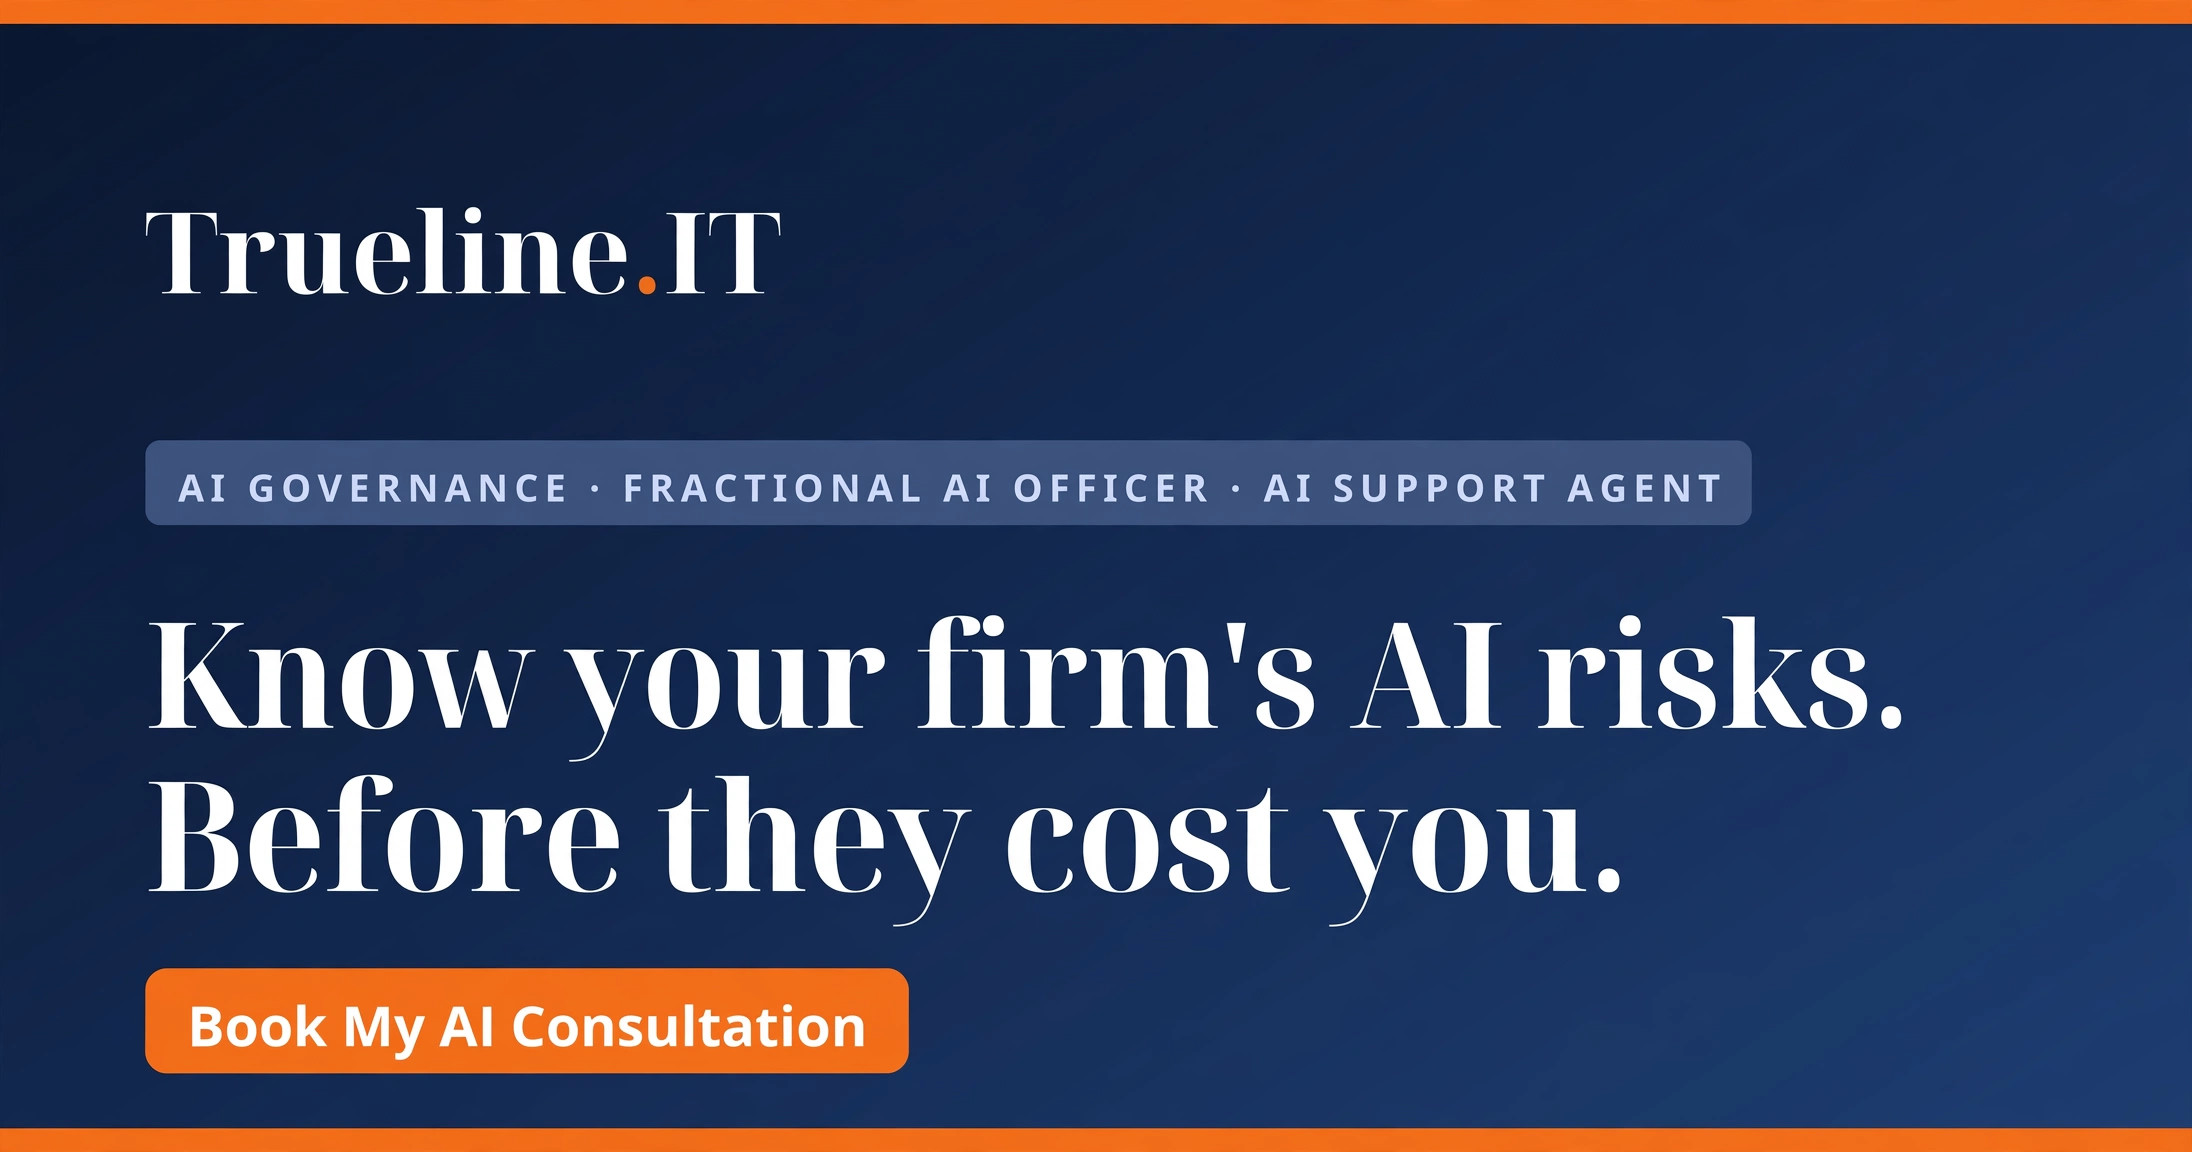
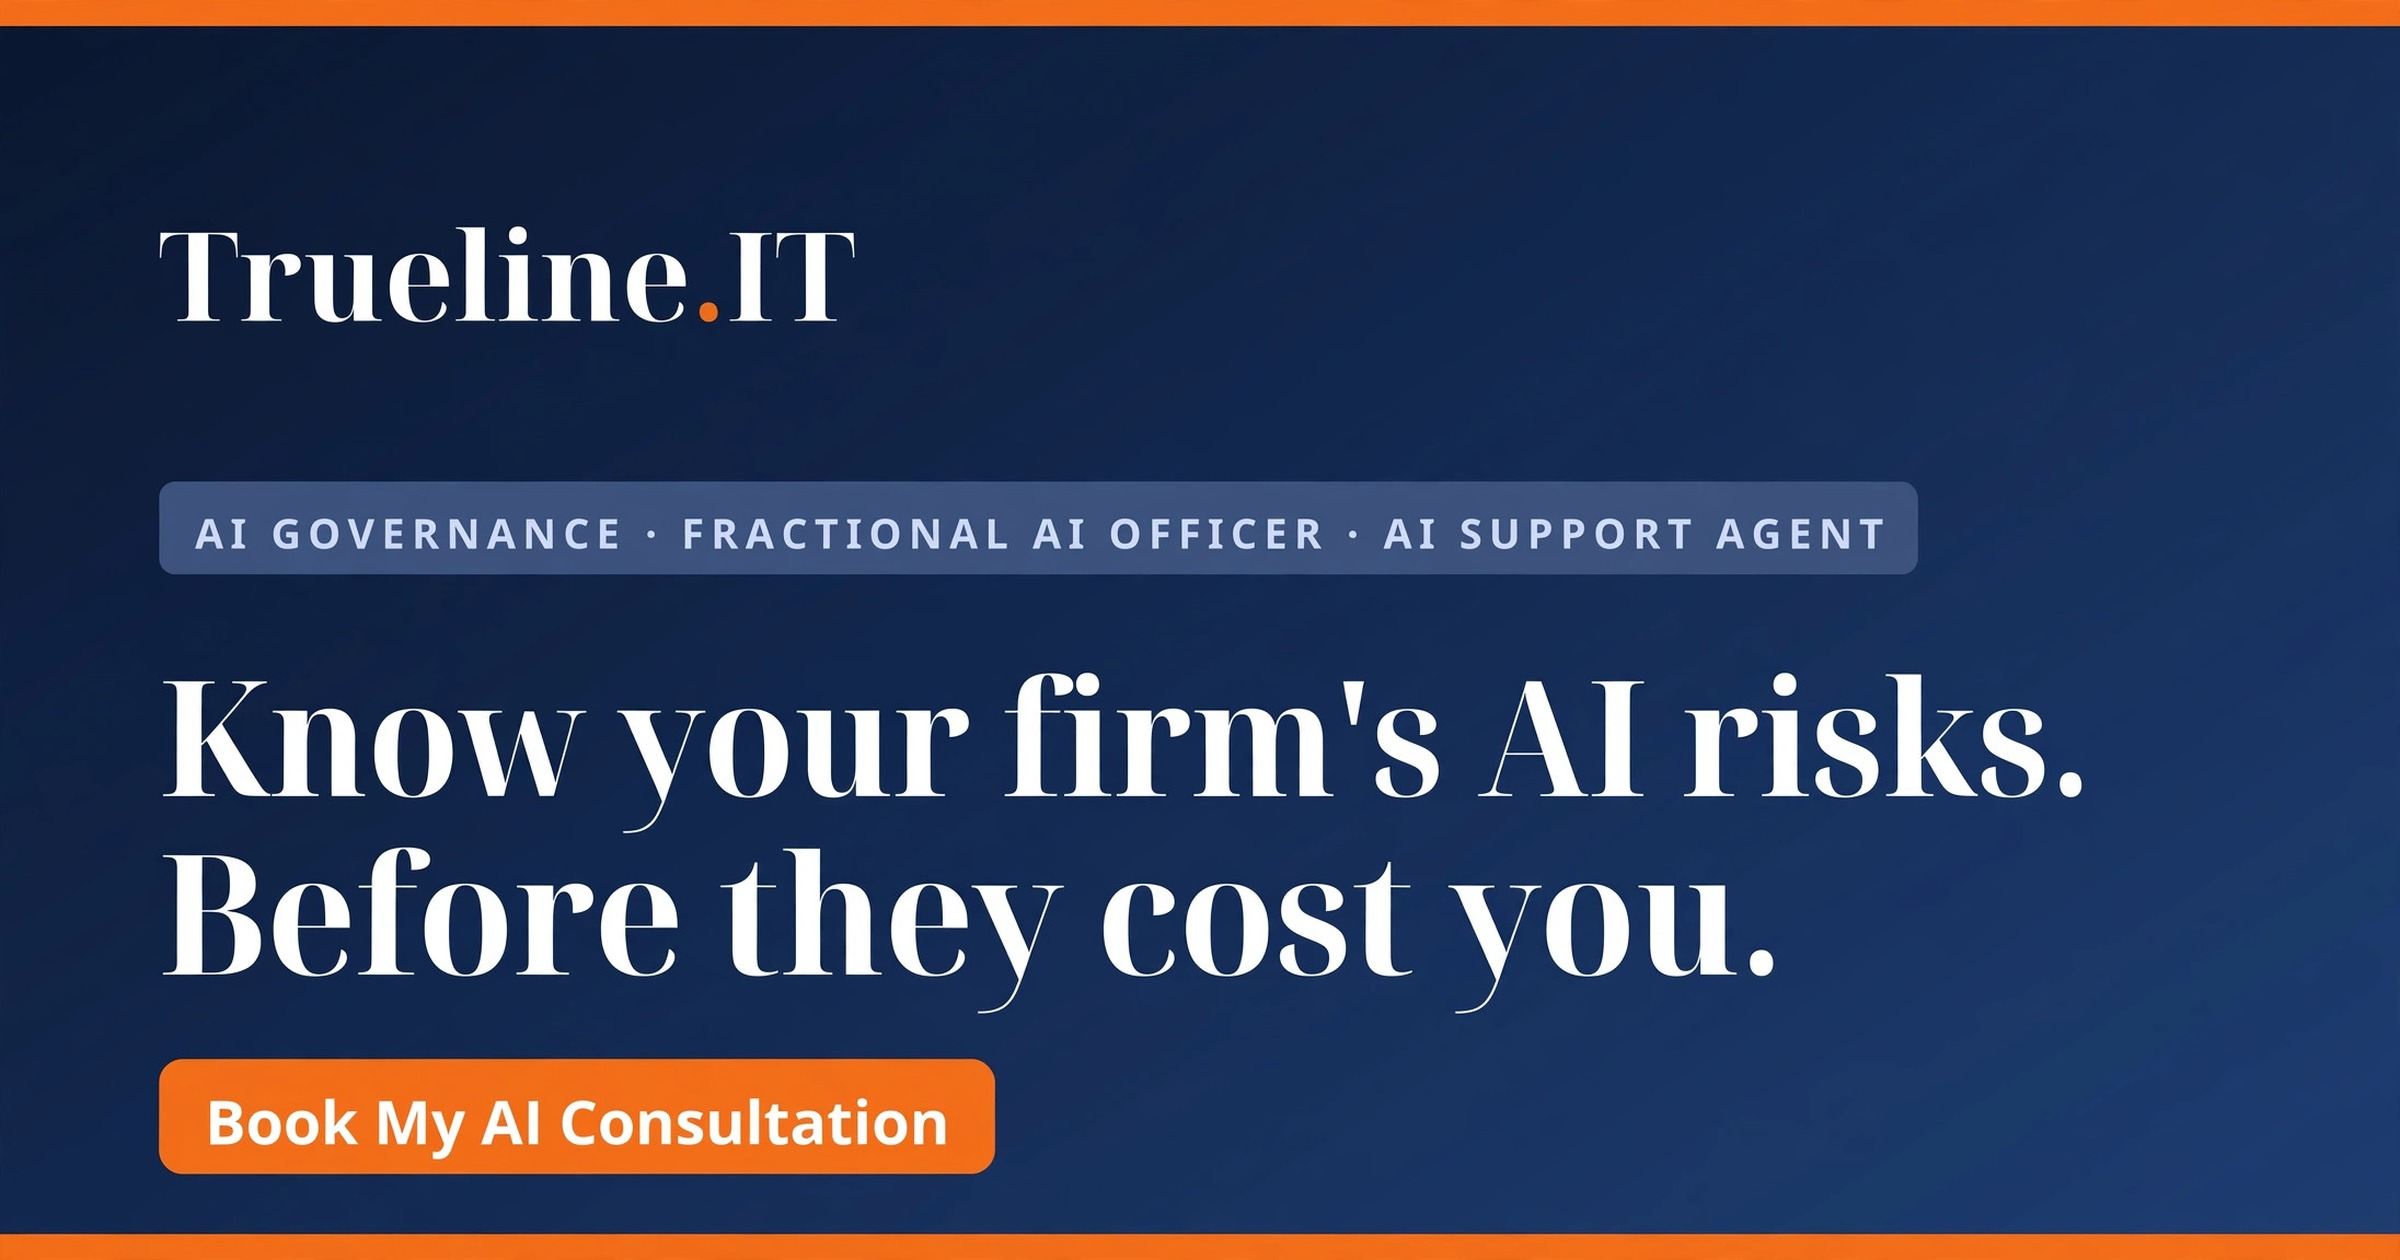
Professional OG image -> Muse 2400x1260 re-export (width/height tags updated to match); og:site_name on 18 pages missing it

diff --git a/ai-governance.html b/ai-governance.html
@@ -113,8 +113,8 @@ body{ font-family: 'DM Sans', sans-serif; color: var(--text); background: var(--
 </style>
 <link rel="canonical" href="https://truelineit.com/ai-governance" />
 <meta property="og:image" content="https://truelineit.com/og-image-professional.jpg" />
-<meta property="og:image:width" content="2192" />
-<meta property="og:image:height" content="1152" />
+<meta property="og:image:width" content="2400" />
+<meta property="og:image:height" content="1260" />
 <meta name="twitter:image" content="https://truelineit.com/og-image-professional.jpg" />
 
     <script>
@@ -131,6 +131,7 @@ body{ font-family: 'DM Sans', sans-serif; color: var(--text); background: var(--
 <meta property="og:description" content="Use AI safely in your firm, done for you: written AI policies, staff training and monitoring. PIPEDA-ready; PHIPA-ready for health practices." />
 <meta property="og:type" content="website" />
 <meta property="og:url" content="https://truelineit.com/ai-governance" />
+<meta property="og:site_name" content="Trueline IT" />
 <meta name="twitter:card" content="summary_large_image" />
 <meta name="twitter:title" content="AI Governance for Professional Firms | Trueline IT" />
 <meta name="twitter:description" content="Use AI safely in your firm, done for you: written AI policies, staff training and monitoring. PIPEDA-ready; PHIPA-ready for health practices." />

diff --git a/blog/20-shadow-ai-audits-2026.html b/blog/20-shadow-ai-audits-2026.html
@@ -142,8 +142,9 @@ body{
 <script type="application/ld+json">{"@context":"https://schema.org","@type":"BreadcrumbList","itemListElement":[{"@type":"ListItem","position":1,"name":"Home","item":"https://truelineit.com"},{"@type":"ListItem","position":2,"name":"Blog","item":"https://truelineit.com/blog"},{"@type":"ListItem","position":3,"name":"Staff Use ChatGPT With Client Files","item":"https://truelineit.com/blog/20-shadow-ai-audits-2026"}]}</script>
 
 <meta property="og:image" content="https://truelineit.com/og-image-professional.jpg" />
-<meta property="og:image:width" content="2192" />
-<meta property="og:image:height" content="1152" />
+<meta property="og:image:width" content="2400" />
+<meta property="og:image:height" content="1260" />
+<meta property="og:site_name" content="Trueline IT" />
 <meta name="twitter:card" content="summary_large_image" />
 <meta name="twitter:title" content="Staff Use ChatGPT With Client Files | Trueline IT" />
 <meta name="twitter:description" content="Staff already use ChatGPT with client files. Most firms have no written AI policy." />

diff --git a/blog/sovereign-zapier-alternatives-compliance.html b/blog/sovereign-zapier-alternatives-compliance.html
@@ -21,8 +21,9 @@ j=d.createElement(s),dl=l!='dataLayer'?'&l='+l:'';j.async=true;j.src=
 <meta property="og:description" content="Zapier alternatives that keep client data under your control. The ladder starts with the AI Liability Assessment at $1,000.">
 <meta property="og:url" content="https://truelineit.com/blog/sovereign-zapier-alternatives-compliance">
 <meta property="og:image" content="https://truelineit.com/og-image-professional.jpg">
-<meta property="og:image:width" content="2192">
-<meta property="og:image:height" content="1152">
+<meta property="og:image:width" content="2400">
+<meta property="og:image:height" content="1260">
+<meta property="og:site_name" content="Trueline IT">
 <meta name="twitter:card" content="summary_large_image">
 <meta name="twitter:title" content="Zapier Alternatives Under Your Control | Trueline IT">
 <meta name="twitter:description" content="Zapier alternatives that keep client data under your control. The ladder starts with the AI Liability Assessment at $1,000.">

diff --git a/fractional-ai-officer.html b/fractional-ai-officer.html
@@ -24,8 +24,9 @@ j=d.createElement(s),dl=l!='dataLayer'?'&l='+l:'';j.async=true;j.src=
 <meta property="og:type" content="website" />
 <meta property="og:url" content="https://truelineit.com/fractional-ai-officer" />
 <meta property="og:image" content="https://truelineit.com/og-image-professional.jpg" />
-<meta property="og:image:width" content="2192" />
-<meta property="og:image:height" content="1152" />
+<meta property="og:image:width" content="2400" />
+<meta property="og:image:height" content="1260" />
+<meta property="og:site_name" content="Trueline IT" />
 <meta name="twitter:card" content="summary_large_image" />
 <meta name="twitter:title" content="Fractional AI Officer — AI Liability Assessment | Trueline IT" />
 <meta name="twitter:description" content="AI Liability Assessment is $1,000, credited in full toward retainer. Fractional AI Officer is $10,000–25,000/mo. Cancel anytime. No notice period." />

diff --git a/ai-support-agent.html b/ai-support-agent.html
@@ -18,8 +18,9 @@ j=d.createElement(s),dl=l!='dataLayer'?'&l='+l:'';j.async=true;j.src=
 <meta property="og:url" content="https://truelineit.com/ai-support-agent">
 <meta property="og:type" content="website">
 <meta property="og:image" content="https://truelineit.com/og-image-professional.jpg">
-<meta property="og:image:width" content="2192">
-<meta property="og:image:height" content="1152">
+<meta property="og:image:width" content="2400">
+<meta property="og:image:height" content="1260">
+<meta property="og:site_name" content="Trueline IT">
 <meta name="twitter:card" content="summary_large_image">
 <meta name="twitter:title" content="AI Support Agent for Law, Accounting, Advisory | Trueline IT">
 <meta name="twitter:description" content="Routine client questions answered from material you already approved, at 7 p.m. For law firms, accountants and advisors. Book My AI Consultation.">

diff --git a/for-law-firms-accountants-and-advisors.html b/for-law-firms-accountants-and-advisors.html
@@ -18,8 +18,9 @@ j=d.createElement(s),dl=l!='dataLayer'?'&l='+l:'';j.async=true;j.src=
 <meta property="og:url" content="https://truelineit.com/for-law-firms-accountants-and-advisors">
 <meta property="og:type" content="website">
 <meta property="og:image" content="https://truelineit.com/og-image-professional.jpg">
-<meta property="og:image:width" content="2192">
-<meta property="og:image:height" content="1152">
+<meta property="og:image:width" content="2400">
+<meta property="og:image:height" content="1260">
+<meta property="og:site_name" content="Trueline IT">
 <meta name="twitter:card" content="summary_large_image">
 <meta name="twitter:title" content="For Law Firms, Accountants and Advisors | Trueline IT">
 <meta name="twitter:description" content="Your associate pasted the client memo into ChatGPT. You still answer for the file. Book My AI Consultation.">

diff --git a/margin-leakage-calculator.html b/margin-leakage-calculator.html
@@ -136,8 +136,9 @@ body{ font-family: 'DM Sans', sans-serif; color: var(--text); background: var(--
 <meta property="og:type" content="website" />
 <meta property="og:url" content="https://truelineit.com/margin-leakage-calculator" />
 <meta property="og:image" content="https://truelineit.com/og-image-professional.jpg" />
-<meta property="og:image:width" content="2192" />
-<meta property="og:image:height" content="1152" />
+<meta property="og:image:width" content="2400" />
+<meta property="og:image:height" content="1260" />
+<meta property="og:site_name" content="Trueline IT" />
 <meta name="twitter:card" content="summary_large_image" />
 <meta name="twitter:title" content="AI Margin Leakage Calculator | Trueline IT" />
 <meta name="twitter:description" content="Estimate unbilled time leaving your law firm, accounting practice or advisory firm." />

diff --git a/google-review-requests.html b/google-review-requests.html
@@ -165,6 +165,7 @@ body{ font-family: 'DM Sans', sans-serif; color: var(--text); background: var(--
 <meta property="og:image" content="https://truelineit.com/og-image-trades.jpg" />
 <meta property="og:image:width" content="2400" />
 <meta property="og:image:height" content="1260" />
+<meta property="og:site_name" content="Trueline IT" />
 <meta name="twitter:card" content="summary_large_image" />
 <meta name="twitter:title" content="Google Reviews for Trades and Appointment Businesses | Trueline IT" />
 <meta name="twitter:description" content="Done-for-you Google Reviews for plumbers, HVAC, electricians, roofers and cleaners, and for salons, clinics and studios. Requests: $79/mo + $99 setup. Requests + Replies: $99/mo + $99 setup per location. We set it up and run it." />

diff --git a/blog/is-your-business-pipeda-compliant.html b/blog/is-your-business-pipeda-compliant.html
@@ -167,8 +167,9 @@ body{
 </script>
 
 <meta property="og:image" content="https://truelineit.com/og-image-professional.jpg" />
-<meta property="og:image:width" content="2192" />
-<meta property="og:image:height" content="1152" />
+<meta property="og:image:width" content="2400" />
+<meta property="og:image:height" content="1260" />
+<meta property="og:site_name" content="Trueline IT" />
 <meta name="twitter:card" content="summary_large_image" />
 <meta name="twitter:title" content="ChatGPT and PIPEDA: what your business needs to know now | Trueline IT" />
 <meta name="twitter:description" content="In May 2026, Canada’s Privacy Commissioner found that OpenAI’s initial training of ChatGPT contravened PIPEDA. Learn why unchecked employee AI use is a massive liability." />

diff --git a/blog/clinical-voice-ai-phipa-compliance.html b/blog/clinical-voice-ai-phipa-compliance.html
@@ -170,8 +170,9 @@ body{
 </script>
 
 <meta property="og:image" content="https://truelineit.com/og-image-professional.jpg" />
-<meta property="og:image:width" content="2192" />
-<meta property="og:image:height" content="1152" />
+<meta property="og:image:width" content="2400" />
+<meta property="og:image:height" content="1260" />
+<meta property="og:site_name" content="Trueline IT" />
 <meta name="twitter:card" content="summary_large_image" />
 <meta name="twitter:title" content="Secure Voice AI for Clinics | Trueline IT" />
 <meta name="twitter:description" content="Using generic AI voice tools for patient care can violate the health-privacy law that applies to you. Trueline IT builds secure, private AI voice infrastructure for clinical directors." />

diff --git a/ai-receptionist.html b/ai-receptionist.html
@@ -175,6 +175,7 @@ body{ font-family: 'DM Sans', sans-serif; color: var(--text); background: var(--
 <meta property="og:image" content="https://truelineit.com/og-image-trades.jpg" />
 <meta property="og:image:width" content="2400" />
 <meta property="og:image:height" content="1260" />
+<meta property="og:site_name" content="Trueline IT" />
 <meta name="twitter:card" content="summary_large_image" />
 <meta name="twitter:title" content="Every call answered—nights, weekends, busy season. | Trueline IT" />
 <meta name="twitter:description" content="AI receptionist for trades and contractors, and for salons, clinics and studios. It answers your calls and sends the request to you. $399/mo plus a one-time $499 setup. Call (647) 360-5774." />

diff --git a/ai-automation-roi-guide.html b/ai-automation-roi-guide.html
@@ -28,8 +28,8 @@ j=d.createElement(s),dl=l!='dataLayer'?'&l='+l:'';j.async=true;j.src=
 <meta property="og:title" content="Shadow AI and Manual Admin Cost | Trueline IT" />
 <meta property="og:description" content="What shadow AI and manual admin cost a firm like yours, before you buy more tools. The ladder starts with the AI Liability Assessment at $1,000." />
 <meta property="og:image" content="https://truelineit.com/og-image-professional.jpg" />
-<meta property="og:image:width" content="2192" />
-<meta property="og:image:height" content="1152" />
+<meta property="og:image:width" content="2400" />
+<meta property="og:image:height" content="1260" />
 <meta property="og:site_name" content="Trueline IT" />
 
 <!-- SEO: Twitter Card -->
